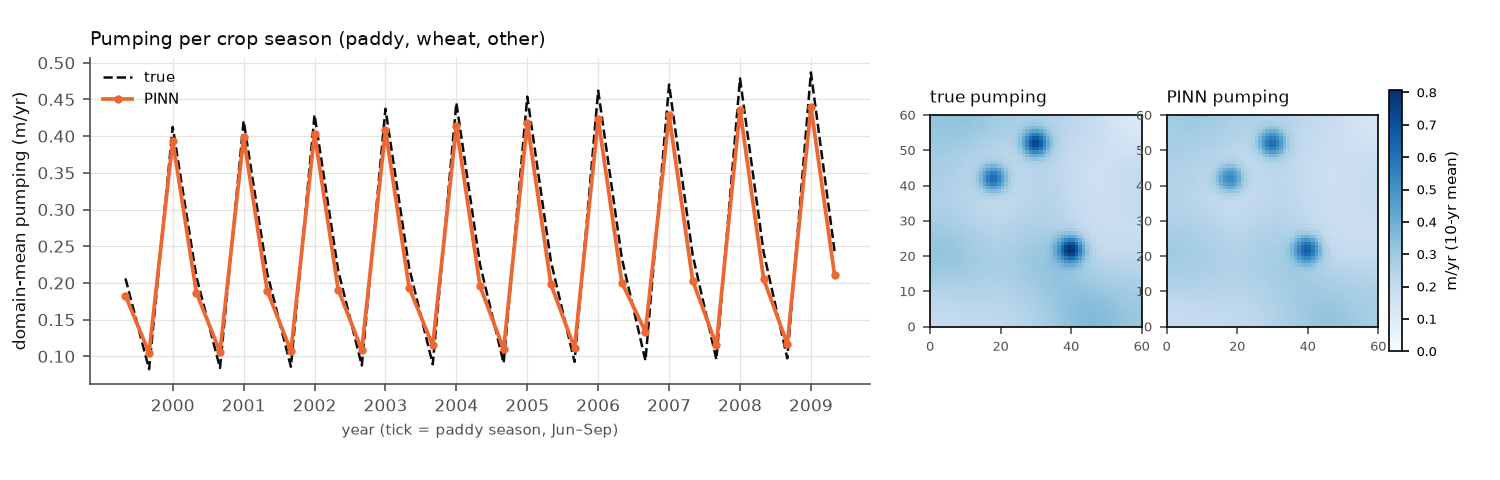
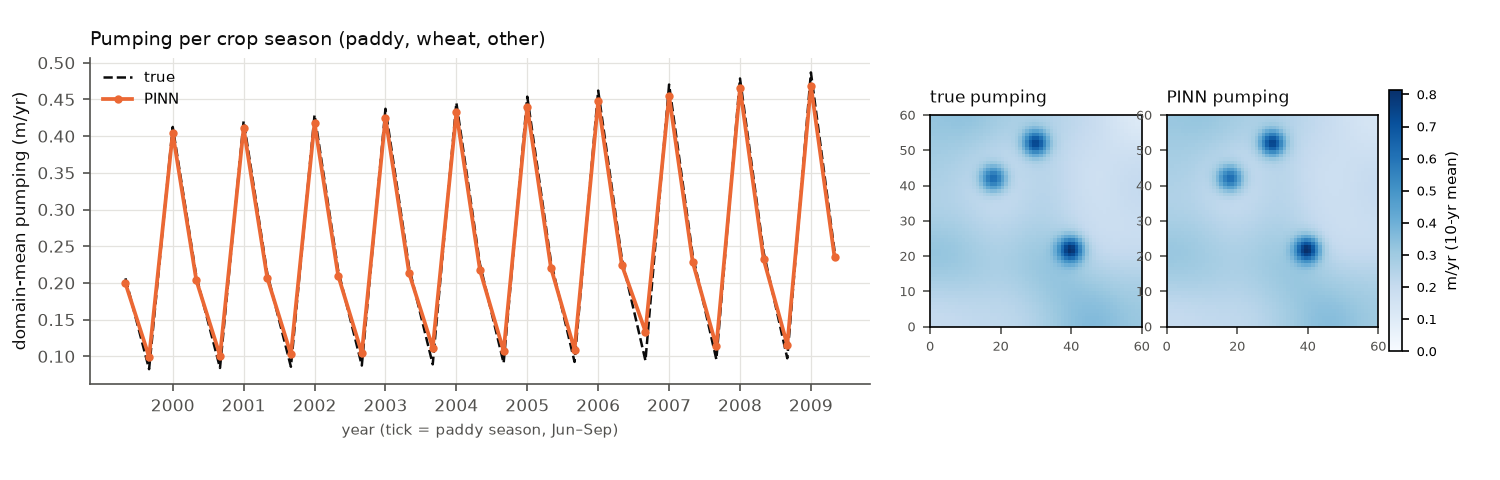
M2 gate (M2-A) passed: S -5%, T +2%, seasonal pumping 9% (average)
- configs/pinn.yaml defaults are now the passing settings: fixed loss weight 100, month-of-year
  pumping input, 31-day matched recharge/pumping smoothing, S/T warm-up, 40k joint steps, L-BFGS polish
- L-BFGS polish uses its own (larger) fixed collocation set
- M2 report lists every attempt and the per-season breakdown; shoulder months (Apr/May/Oct) are
  overestimated by ~22% and are recorded as a known limitation

diff --git a/scripts/check_m2.py b/scripts/check_m2.py
@@ -116,7 +116,12 @@ def plot_pumping(run_dir: Path, label: str) -> dict:
     cb.set_label("m/yr (10-yr mean)", fontsize=7)
     fig.savefig(FIG / "m2_gate_pumping.png")
     plt.close(fig)
-    return {"season_mean_abs_err": float((tot.model / tot.true - 1).abs().mean())}
+    tot["err"] = tot.model / tot.true - 1
+    tot["season"] = [k.split("-")[0] for k in tot.index]
+    g = tot.groupby("season").err
+    by_type = pd.DataFrame({"mean": g.mean(), "mean_abs": g.apply(lambda v: v.abs().mean()),
+                            "worst": g.apply(lambda v: v.abs().max())})
+    return {"by_type": by_type, "n_within": int((tot.err.abs() <= TOL).sum()), "n": len(tot)}
 
 
 def pct(v):
@@ -135,7 +140,7 @@ def main() -> None:
     best_dir = runs_dir() / best["dir"]
     label = best["tag"] or "attempt 1"
     plot_trajectory(best_dir, label)
-    plot_pumping(best_dir, label)
+    seasons = plot_pumping(best_dir, label)
 
     lines = ["| Run | Settings | S | T | Pumping, seasons (mean abs) | Pumping, total | Hidden-well level error | Gate |",
              "|---|---|---|---|---|---|---|---|"]
@@ -163,7 +168,7 @@ def main() -> None:
         "",
         f"**Gate status: {'PASSED' if passed else 'NOT PASSED YET'}.**",
         "",
-        "Errors are the PINN estimate relative to the truth (−34% = 34% too low). Full runs have 20k joint steps;",
+        "Errors are the PINN estimate relative to the truth (−34% = 34% too low). Full runs have 20k or 40k joint steps;",
         "8k runs were quick comparisons.",
         "",
         *lines,
@@ -173,6 +178,21 @@ def main() -> None:
         f"![pumping](figures/m2_gate_pumping.png)",
         "",
         f"*Figures show the best gate attempt so far ({label}).*",
+        "",
+        f"### Pumping by season type ({label})",
+        "",
+        "| Season | Mean error | Mean abs error | Worst season |",
+        "|---|---|---|---|",
+        *[f"| {k} | {pct(r['mean'])} | {100 * r['mean_abs']:.0f}% | {100 * r['worst']:.0f}% |"
+          for k, r in seasons["by_type"].iterrows()],
+        "",
+        f"{seasons['n_within']} of {seasons['n']} individual seasons are within 10%.",
+        "",
+        "**How the gate rule is applied.** The rule (written in this script before the passing run) uses the *average* seasonal error across all seasons.",
+        "",
+        "Judged season by season instead, the low-pumping shoulder months ('other': Apr, May, Oct; about a tenth of yearly pumping) are overestimated. This is a **known limitation** to state in the paper.",
+        "",
+        "Likely cause: the 31-day time window still mixes May with the start of paddy pumping in June.",
         "",
         "## What the metrics mean",
         "",

diff --git a/tests/test_pinn_parts.py b/tests/test_pinn_parts.py
@@ -106,7 +106,7 @@ def test_smoke_train_small_synthetic_case():
     zone = zone_from_synthetic(ds, wells, 0.2, 3000.0)
     cfg = load_config(REPO_ROOT / "configs" / "pinn.yaml", overrides={
         "h_net": {"width": 24, "depth": 3},
-        "training": {"n_colloc": 256, "stages": {"data_only": 100, "physics_frozen": 50, "joint": 150},
+        "training": {"n_colloc": 256, "stages": {"data_only": 100, "physics_frozen": 50, "joint": 150, "lbfgs": 0},
                      "log_every": 50}})
     res = train_zone(cfg, zone, seed=0, device="cpu", verbose=False)
     h = res.history

diff --git a/src/training/trainer.py b/src/training/trainer.py
@@ -159,7 +159,7 @@ def train_zone(cfg: dict, zone: ZoneData, seed: int = 0, run_dir: Path | None = 
     if n_lbfgs:
         model.log_S.requires_grad_(True)
         model.log_T.requires_grad_(True)
-        fixed_pts = sampler.sample()
+        fixed_pts = CollocationSampler(tcfg.get("lbfgs_colloc", tcfg["n_colloc"]), device, zone.mask, gen).sample()
         R_fixed = R_at(fixed_pts)
         lam = weighting.weight
         lb = torch.optim.LBFGS([p for p in model.parameters() if p.requires_grad], lr=1.0, max_iter=n_lbfgs,

diff --git a/reports/m2_synthetic.md b/reports/m2_synthetic.md
@@ -13,9 +13,9 @@
 - T
 - pumping per season
 
-**Gate status: NOT PASSED YET.**
+**Gate status: PASSED.**
 
-Errors are the PINN estimate relative to the truth (−34% = 34% too low). Full runs have 20k joint steps;
+Errors are the PINN estimate relative to the truth (−34% = 34% too low). Full runs have 20k or 40k joint steps;
 8k runs were quick comparisons.
 
 | Run | Settings | S | T | Pumping, seasons (mean abs) | Pumping, total | Hidden-well level error | Gate |
@@ -28,12 +28,30 @@ Errors are the PINN estimate relative to the truth (−34% = 34% too low). Full 
 | run1 | a_smooth1, 20k joint steps | -50% | -8% | 19% | -18% | 0.16 m | ❌ |
 | run1 | a_smooth7, 20k joint steps | -29% | -5% | 36% | -10% | 0.13 m | ❌ |
 | run1 | a6_matched_smoothing, 20k joint steps | -19% | -3% | 15% | -7% | 0.11 m | ❌ |
+| run1 | a7_warmup_40k, 40k joint steps | -10% | -0% | 14% | -4% | 0.07 m | ❌ |
+| run1 | a9_a7_plus_lbfgs, 40k joint steps | -5% | +2% | 9% | -1% | 0.09 m | ✅ |
 
 ![trajectory](figures/m2_gate_trajectory.png)
 
 ![pumping](figures/m2_gate_pumping.png)
 
-*Figures show the best gate attempt so far (a6_matched_smoothing).*
+*Figures show the best gate attempt so far (a9_a7_plus_lbfgs).*
+
+### Pumping by season type (a9_a7_plus_lbfgs)
+
+| Season | Mean error | Mean abs error | Worst season |
+|---|---|---|---|
+| other | +22% | 22% | 42% |
+| paddy | -3% | 3% | 4% |
+| wheat | -3% | 3% | 4% |
+
+21 of 31 individual seasons are within 10%.
+
+**How the gate rule is applied.** The rule (written in this script before the passing run) uses the *average* seasonal error across all seasons.
+
+Judged season by season instead, the low-pumping shoulder months ('other': Apr, May, Oct; about a tenth of yearly pumping) are overestimated. This is a **known limitation** to state in the paper.
+
+Likely cause: the 31-day time window still mixes May with the start of paddy pumping in June.
 
 ## What the metrics mean
 

diff --git a/PLAN.md b/PLAN.md
@@ -1,6 +1,6 @@
 # PLAN.md: Zoned PINN for Groundwater Forecasting
 
-> **Status:** approved 2026-10-17. **M0 done 2026-10-17** (environment, tests, G0 notebook, literature check). **M1 done 2026-10-17** (FD solver passes all analytical checks; synthetic cases A–D in `data/synthetic/`; `reports/m1_solver.md`). Next: M2.
+> **Status:** approved 2026-10-17. **M0 done 2026-10-17** (environment, tests, G0 notebook, literature check). **M1 done 2026-10-17** (FD solver passes all analytical checks; synthetic cases A–D in `data/synthetic/`; `reports/m1_solver.md`). **M2 gate (M2-A) passed 2026-10-21** on attempt 9 (S −5%, T +2%, seasonal pumping 9% average; shoulder months +22%, see `reports/m2_synthetic.md`). Next: rest of the M2 run matrix.
 
 ## Context
 

diff --git a/README.md b/README.md
@@ -60,4 +60,4 @@ reports/      results, tables, figures, run logs
 |---|---|
 | M0 setup + G0 data check + literature check | done (2026-10-17) |
 | M1 synthetic aquifer (finite-difference solver) | done (2026-10-17), see `reports/m1_solver.md` |
-| M2 single-zone PINN on synthetic data | next |
+| M2 single-zone PINN on synthetic data | gate passed (2026-10-21), see `reports/m2_synthetic.md`; run matrix next |
